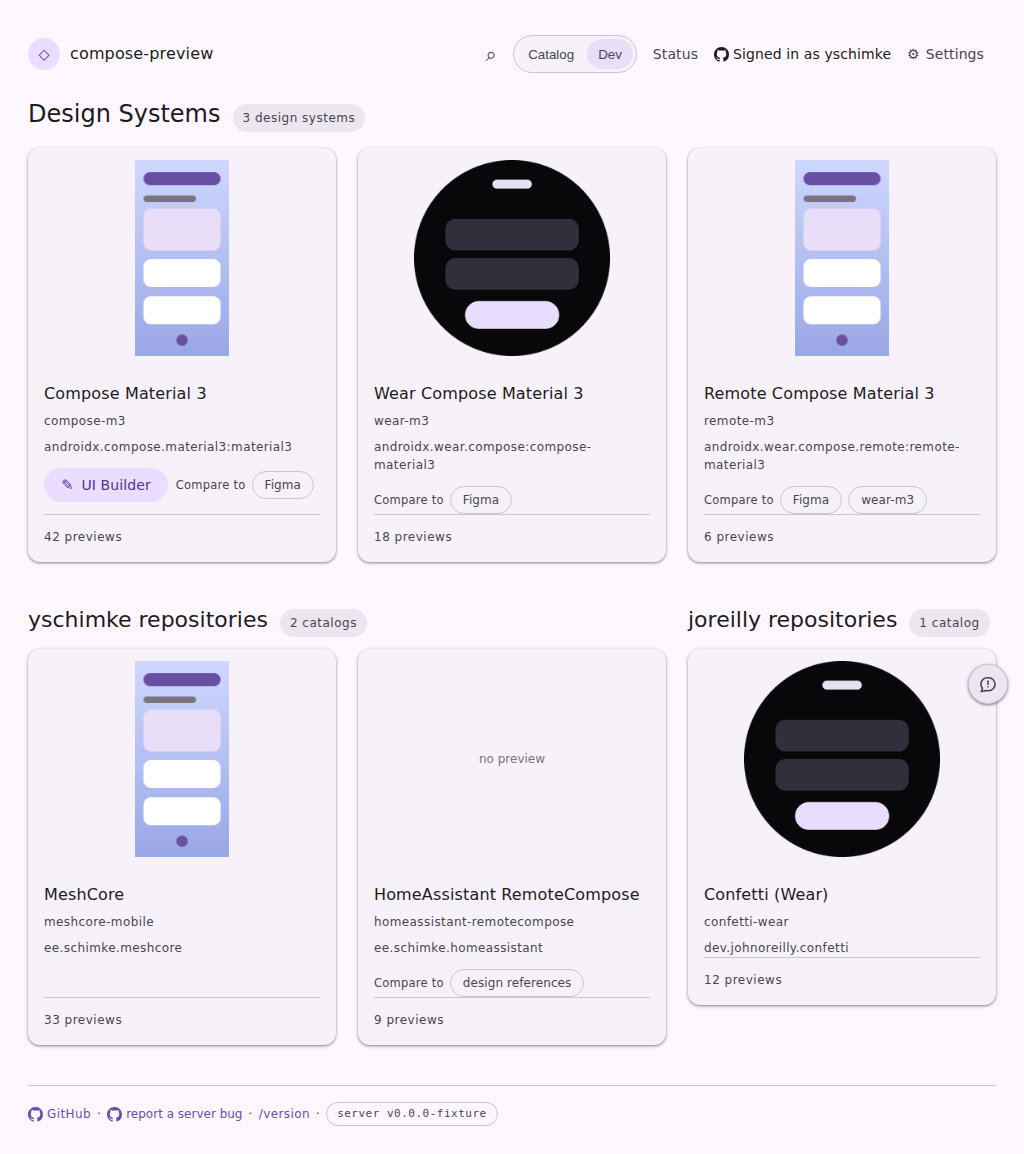
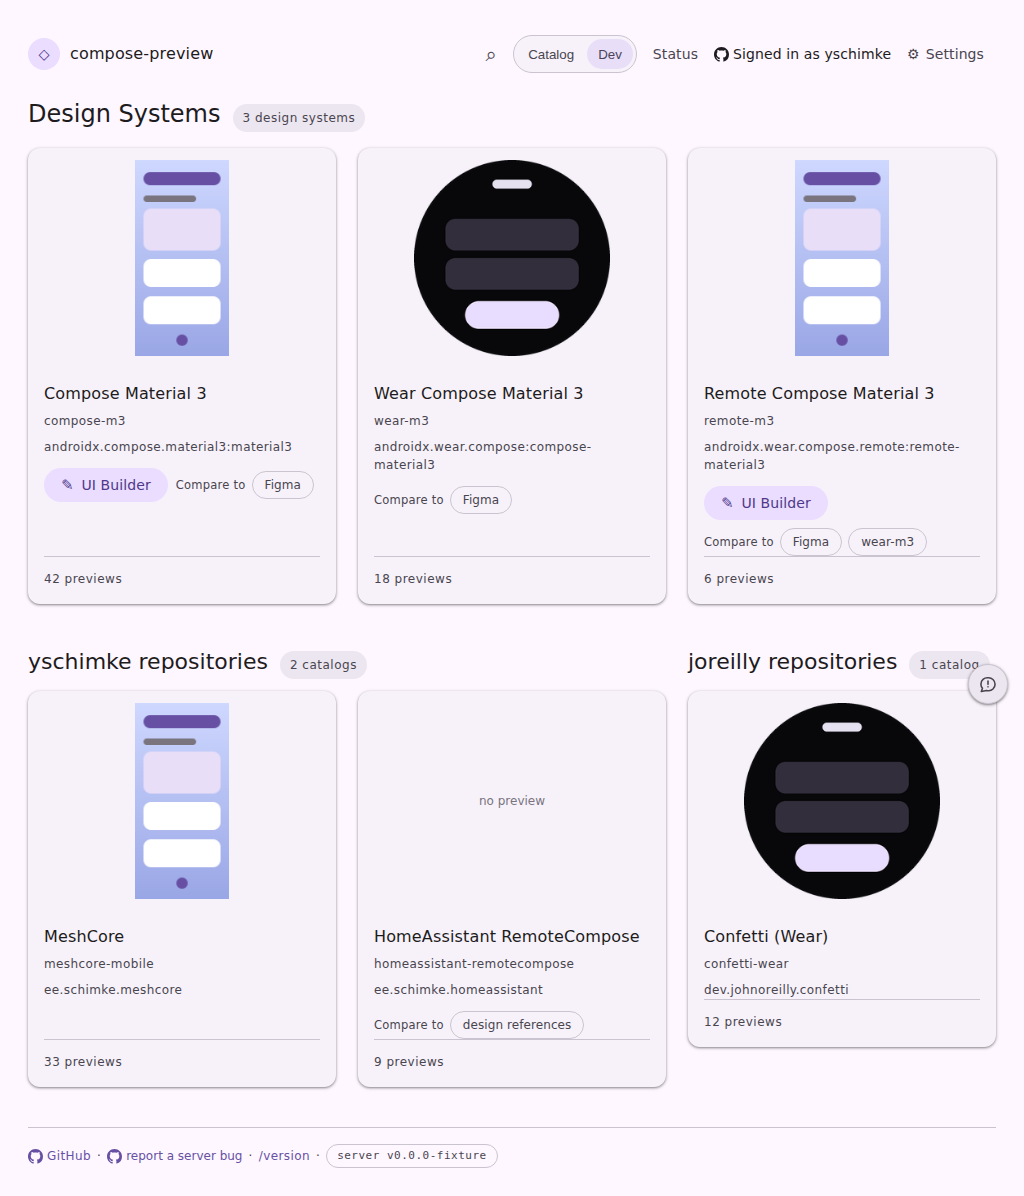
test(serve): cover the widest card — builder chip beside both comparisons
The golden held the two halves separately: a card with the builder and one
comparison, and a card with two comparisons and no builder. Never the case
where they meet, which is the one that decides whether the row still fits a
fixed grid track.

`remote-m3` now carries the builder too, so the capture pins what the row does
when it cannot fit on one line: it wraps BETWEEN groups — builder on its own
line, `Compare to` and both destinations intact below — rather than through the
compare group, and every card in the section stays the same height.

diff --git a/preview-harness/fixtures/pages/serve-home-index.html b/preview-harness/fixtures/pages/serve-home-index.html
@@ -120,7 +120,7 @@
     <div class="cp-sys-title"><a class="cp-sys-open" href="/remote-m3/">Remote Compose Material 3</a></div>
       <div class="cp-id">remote-m3</div>
       <div class="cp-sys-desc">androidx.wear.compose.remote:remote-material3</div>
-      <div class="cp-sys-actions"><span class="cp-sys-compare"><span class="cp-sys-compare-label" aria-hidden="true">Compare to</span><a class="cp-action-chip cp-action-chip--compact" href="/remote-m3/compare?format=reference" aria-label="Remote Compose Material 3: compare to Figma" title="Remote Compose Material 3: compare to Figma">Figma</a><a class="cp-action-chip cp-action-chip--compact" href="/remote-m3/compare?format=parallel" aria-label="Remote Compose Material 3: compare to Wear Compose Material 3" title="Remote Compose Material 3: compare to Wear Compose Material 3">wear-m3</a></span></div>
+      <div class="cp-sys-actions"><a class="cp-action-chip cp-action-chip--primary" href="/ui-builder/remote-m3/" aria-label="Remote Compose Material 3: open the UI Builder"><span class="cp-action-chip-icon" aria-hidden="true">✎</span>UI Builder</a><span class="cp-sys-compare"><span class="cp-sys-compare-label" aria-hidden="true">Compare to</span><a class="cp-action-chip cp-action-chip--compact" href="/remote-m3/compare?format=reference" aria-label="Remote Compose Material 3: compare to Figma" title="Remote Compose Material 3: compare to Figma">Figma</a><a class="cp-action-chip cp-action-chip--compact" href="/remote-m3/compare?format=parallel" aria-label="Remote Compose Material 3: compare to Wear Compose Material 3" title="Remote Compose Material 3: compare to Wear Compose Material 3">wear-m3</a></span></div>
       <div class="cp-sys-foot">6 previews</div>
   </div>
 </div>

diff --git a/server/src/test/kotlin/ee/schimke/composeai/cli/serve/ServeWebFixtureTest.kt b/server/src/test/kotlin/ee/schimke/composeai/cli/serve/ServeWebFixtureTest.kt
@@ -1041,13 +1041,19 @@ class ServeWebFixtureTest {
             logoutHref = "/auth/github/logout?return=%2F",
             login = "yschimke",
           ),
-        // Signed in AND permitted, on one of the three design systems: the golden then holds a card
+        // Signed in AND permitted, on two of the three design systems: the golden then holds a card
         // carrying both actions beside a card carrying only the comparison, which is the row the
         // chip row's alignment exists for. The refused shape is a unit-test concern — it turns on
         // the visitor, not on the page, so a second golden of the same grid would pin nothing new.
+        //
+        // `remote-m3` is the SECOND, and it is the widest card this grid can produce: the builder
+        // chip, the `Compare to` label and BOTH destinations, in a fixed grid track. Without it the
+        // golden held the two halves separately — a card with the builder and one comparison, and a
+        // card with two comparisons and no builder — and never the case where they meet, which is
+        // the one that decides whether the row still fits.
         uiBuilder =
           ServeWeb.UiBuilderInvite(
-            systems = setOf("compose-m3"),
+            systems = setOf("compose-m3", "remote-m3"),
             signedIn = true,
             permitted = true,
           ),

diff --git a/docs/evidence/paired-catalog-surfaces/README.md b/docs/evidence/paired-catalog-surfaces/README.md
@@ -6,7 +6,7 @@ Captures from the `preview-harness` pages run over the committed fixtures, light
 | File | What it shows |
 | --- | --- |
 | `front-door-before.png` | Each card carrying one long `compare to Figma` chip, and no card naming a paired catalog at all — `remote-m3` and its Wear sibling sit as neighbours with nothing saying they are a pair. |
-| `front-door-after.png` | `Compare to` said once by the row, then the destinations as compact chips: `Figma` and `wear-m3` side by side on `remote-m3`. |
+| `front-door-after.png` | `Compare to` said once by the row, then the destinations as compact chips: `Figma` and `wear-m3` side by side on `remote-m3`. That card also carries the UI Builder chip — the widest row this grid can produce — so the capture shows the row wrapping BETWEEN groups (builder on its own line, the compare group intact below) rather than through one. |
 | `viewer-before.png` | The `serve-viewer-rc-parallel` toolbar with a bare `layer diff →`. |
 | `viewer-after.png` | The same link named for the sibling — `Wear M3 layers →` — which on a viewer that also has a spec diff is the only thing on the resting page saying a counterpart exists. |
 
